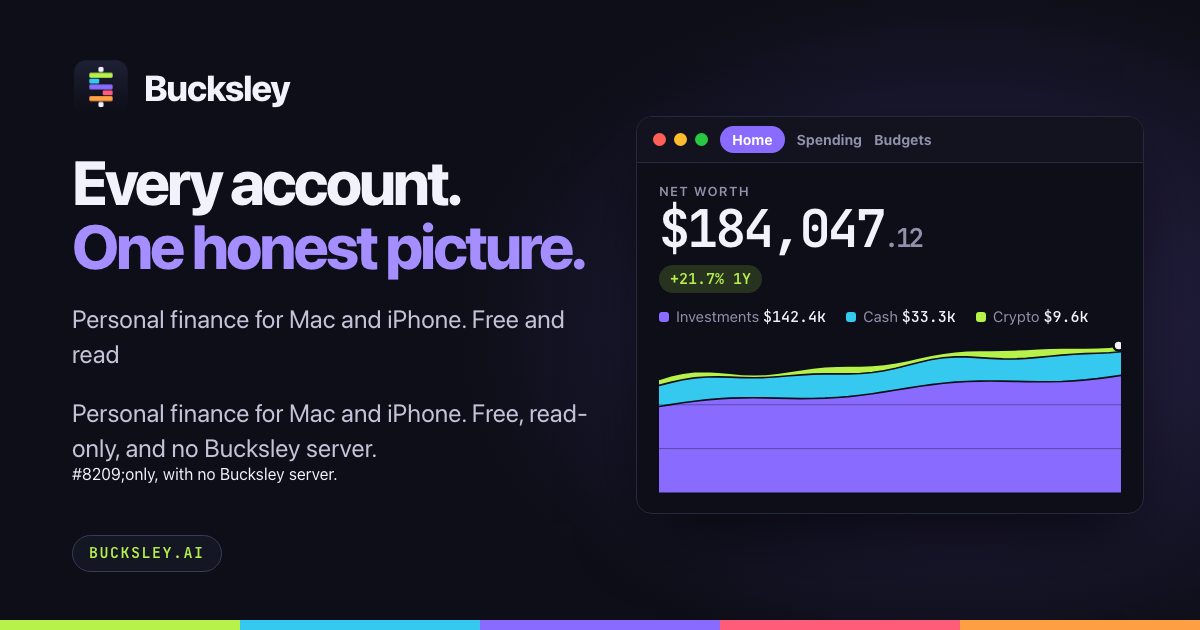
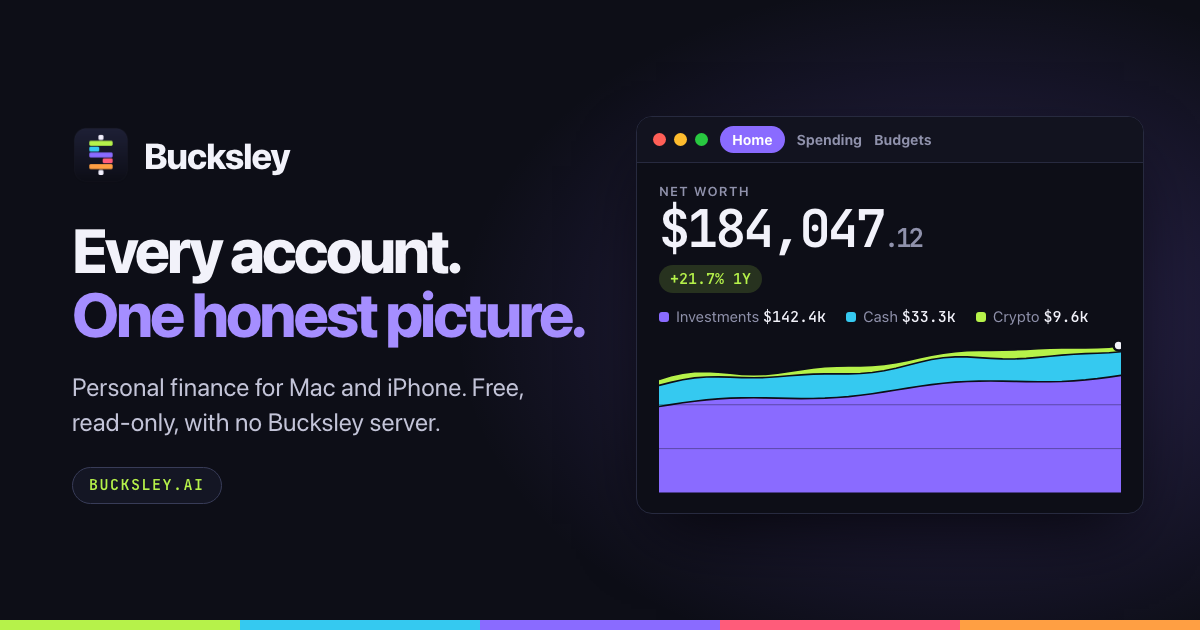
[bucksley-site] fix the social card tagline source

diff --git a/tools/social-card.html b/tools/social-card.html
@@ -41,7 +41,7 @@
   <div class="copy">
     <div class="brand"><img src="../assets/icon.png" alt="">Bucksley</div>
     <h1>Every account.<br><em>One honest picture.</em></h1>
-    <p>Personal finance for Mac and iPhone. Free and read<p>Personal finance for Mac and iPhone. Free, read-only, and no Bucksley server.</p>#8209;only, with no Bucksley server.</p>
+    <p>Personal finance for Mac and iPhone. Free, read&#8209;only, with no Bucksley server.</p>
     <div class="pill">BUCKSLEY.AI</div>
   </div>
   <div class="win">
